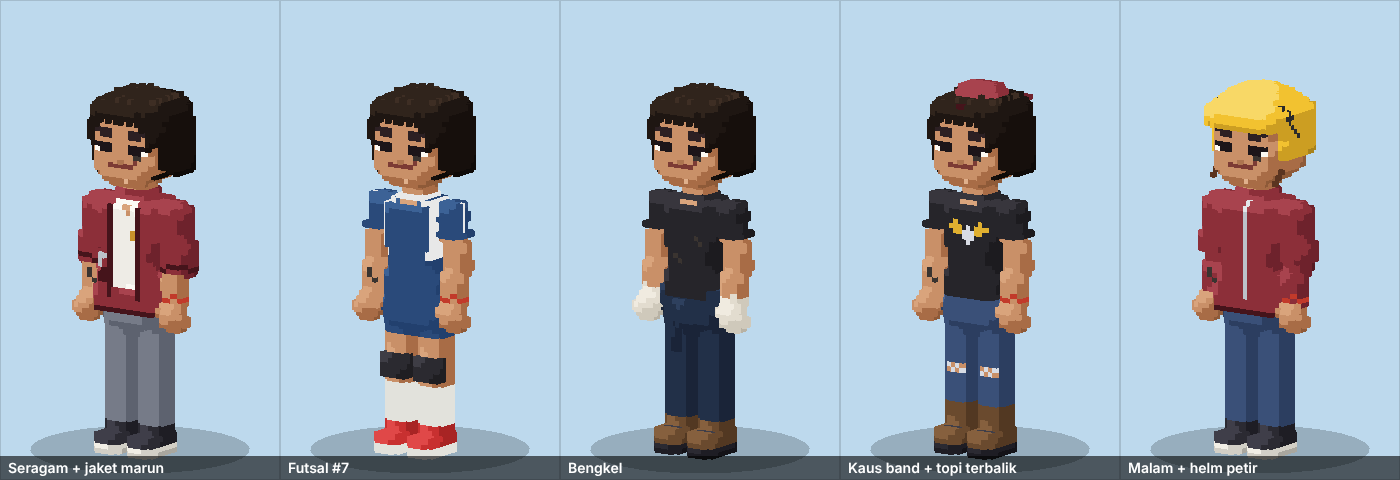
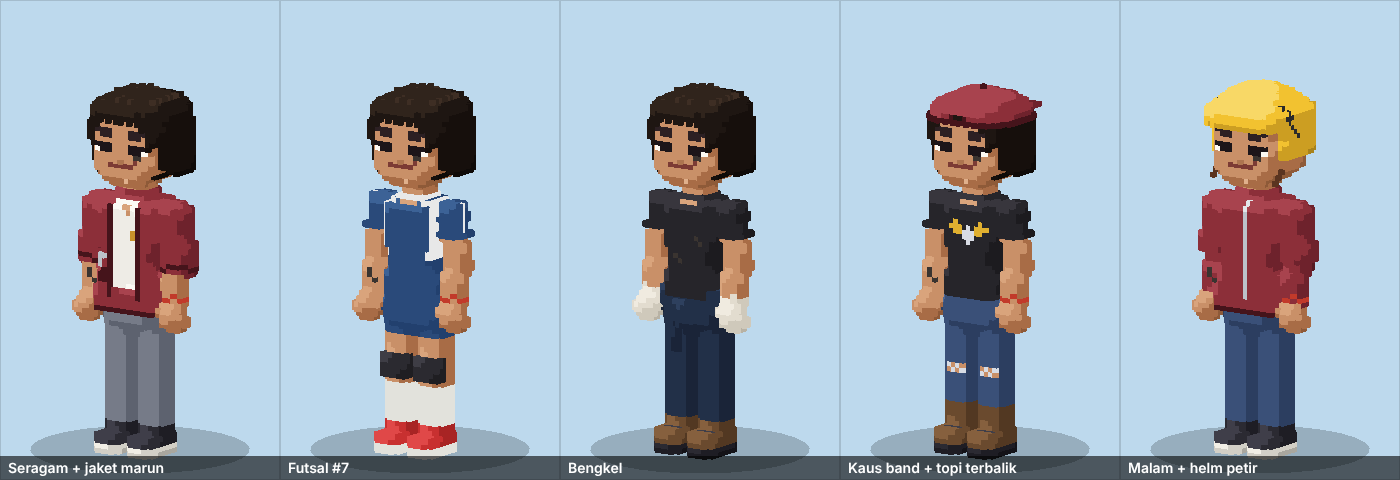
Uti: cap wraps the top of the bob, jersey number reads correctly
The backwards cap now recolours the hair above z 13 plus a one-voxel rim,
so it fits the bob instead of floating as a small dome. The back number
7 was mirrored; back-printed glyphs now map columns as y = centre - c.

Claude-Session: https://claude.ai/code/session_01WWrFmMTNqpdmTQwapYwS1X

Changed region(s): [[0.645, 0.1562, 0.7679, 0.2812]]

diff --git a/tokoh-voxel/raka_voxel.html b/tokoh-voxel/raka_voxel.html
@@ -3350,13 +3350,16 @@ function head(o) {
   hair.rrect(16, -8, -8, 6, 7, 'uHair', 5); hair.rrect(17, -7, -6, 5, 5, 'uHair', 4); hair.rrect(18, -4, -4, 2, 2, 'uHair', 2);
   const zmin = (x, y) => x >= 4 && Math.abs(y + 0.5) > 7 ? 9 : x >= 5 ? FR[Math.max(0, Math.min(13, y + 7))] : x >= 1 ? (Math.abs(y + 0.5) > 6.5 ? 3 + (rnd(x, y, 1) % 3) : 0) : 2 + (rnd(x, y, 2) % 3);
   hair.each((x, y, z, c) => { if (!v.has(x, y, z) && z >= zmin(x, y)) v.set(x, y, z, c); });
-  for (const [x, y] of [[-2, 1], [1, -5], [-5, -3], [4, 3], [6, -6], [-7, 5], [0, -2]]) { const z = topZ(v, x, y); if (z !== null) v.set(x, y, z + 1, 'uHair'); }   // jambul berantakan
+  if (!o.cap) for (const [x, y] of [[-2, 1], [1, -5], [-5, -3], [4, 3], [6, -6], [-7, 5], [0, -2]]) { const z = topZ(v, x, y); if (z !== null) v.set(x, y, z + 1, 'uHair'); }   // jambul berantakan
   for (const y of [-6, -2, 1, 5]) for (let x = -6; x <= 5; x++) { const z = topZ(v, x, y); if (z !== null && rnd(x, y, 5) % 3 === 0 && v.get(x, y, z) === 'uHair') v.set(x, y, z, 'uHairT'); }
-  if (o.cap) {   // topi terbalik marun: kubah di atas bob, pet ke belakang
-    for (let z = 15; z <= 18; z++) { const k = z - 15; v.shell(z, -8 + k, -8 + k, 6 - k, 7 - k, 'topiU', 4); }
-    v.rrect(19, -4, -4, 2, 3, 'topiU', 2);
-    for (let x = -13; x <= -8; x++) for (let y = -4; y <= 3; y++) v.set(x, y, 15, 'topiU');
-    v.set(6, -1, 16, 'marunS'); v.set(6, 0, 16, 'marunS');
+  if (o.cap) {   // topi terbalik marun: membungkus rambut bagian atas saja (z >= 13), bob tetap keluar di bawah
+    v.each((x, y, z, c) => { if (z >= 13 && (c === 'uHair' || c === 'uHairT')) v.set(x, y, z, 'topiU'); });
+    const ring = [];   // lis bawah topi 1 voxel menonjol keluar
+    v.each((x, y, z, c) => { if (z === 13 && c === 'topiU') for (const [dx, dy] of [[1, 0], [-1, 0], [0, 1], [0, -1]]) if (!v.has(x + dx, y + dy, z)) ring.push([x + dx, y + dy]); });
+    for (const [x, y] of ring) v.set(x, y, 13, 'marunS');
+    for (let y = -4; y <= 3; y++) { const xb = v.back(y, 13); for (let x = xb - 1; x >= xb - 6; x--) v.set(x, y, 13, 'topiU'); }   // pet di belakang
+    for (let y = -2; y <= 1; y++) { const z = 14, x = v.front(y, z); if (x !== null) v.set(x, y, z, Math.abs(y + 0.5) < 1 ? 'uHair' : 'marunS'); }   // bukaan pengatur di depan
+    const tz = Math.max(...[-1, 0].map(y => topZ(v, -1, y))); v.set(-1, 0, tz + 1, 'marunS');   // kancing atas topi
   }
   return v;
 }
@@ -3370,7 +3373,7 @@ function chest(o) {
   if (F) {   // jersey futsal putri: garis putih di bahu, nomor 7 di punggung dan dada kecil
     for (let y = -2; y <= 1; y++) v.pf(y, 51, 'uSkin'); v.shell(52, -3, -3, 3, 2, 'uNum', 1);
     for (const s of [-1, 1]) v.psBox(s, -3, 40, 3, 51, 'uNum');
-    ['XXXXX', '....X', '...X.', '..X..', '..X..', '.X...', '.X...'].forEach((row, r) => [...row].forEach((ch, c) => { if (ch === 'X') v.pb(c - 2, 48 - r, 'uNum'); }));
+    ['XXXXX', '....X', '...X.', '..X..', '..X..', '.X...', '.X...'].forEach((row, r) => [...row].forEach((ch, c) => { if (ch === 'X') v.pb(2 - c, 48 - r, 'uNum'); }));
     return v;
   }
   if (W || B) {   // kaus hitam (bengkel) / kaus band motor bersablon roda bersayap (jalan)

diff --git a/tokoh-voxel/src/uti.js b/tokoh-voxel/src/uti.js
@@ -70,13 +70,16 @@ function head(o) {
   hair.rrect(16, -8, -8, 6, 7, 'uHair', 5); hair.rrect(17, -7, -6, 5, 5, 'uHair', 4); hair.rrect(18, -4, -4, 2, 2, 'uHair', 2);
   const zmin = (x, y) => x >= 4 && Math.abs(y + 0.5) > 7 ? 9 : x >= 5 ? FR[Math.max(0, Math.min(13, y + 7))] : x >= 1 ? (Math.abs(y + 0.5) > 6.5 ? 3 + (rnd(x, y, 1) % 3) : 0) : 2 + (rnd(x, y, 2) % 3);
   hair.each((x, y, z, c) => { if (!v.has(x, y, z) && z >= zmin(x, y)) v.set(x, y, z, c); });
-  for (const [x, y] of [[-2, 1], [1, -5], [-5, -3], [4, 3], [6, -6], [-7, 5], [0, -2]]) { const z = topZ(v, x, y); if (z !== null) v.set(x, y, z + 1, 'uHair'); }   // jambul berantakan
+  if (!o.cap) for (const [x, y] of [[-2, 1], [1, -5], [-5, -3], [4, 3], [6, -6], [-7, 5], [0, -2]]) { const z = topZ(v, x, y); if (z !== null) v.set(x, y, z + 1, 'uHair'); }   // jambul berantakan
   for (const y of [-6, -2, 1, 5]) for (let x = -6; x <= 5; x++) { const z = topZ(v, x, y); if (z !== null && rnd(x, y, 5) % 3 === 0 && v.get(x, y, z) === 'uHair') v.set(x, y, z, 'uHairT'); }
-  if (o.cap) {   // topi terbalik marun: kubah di atas bob, pet ke belakang
-    for (let z = 15; z <= 18; z++) { const k = z - 15; v.shell(z, -8 + k, -8 + k, 6 - k, 7 - k, 'topiU', 4); }
-    v.rrect(19, -4, -4, 2, 3, 'topiU', 2);
-    for (let x = -13; x <= -8; x++) for (let y = -4; y <= 3; y++) v.set(x, y, 15, 'topiU');
-    v.set(6, -1, 16, 'marunS'); v.set(6, 0, 16, 'marunS');
+  if (o.cap) {   // topi terbalik marun: membungkus rambut bagian atas saja (z >= 13), bob tetap keluar di bawah
+    v.each((x, y, z, c) => { if (z >= 13 && (c === 'uHair' || c === 'uHairT')) v.set(x, y, z, 'topiU'); });
+    const ring = [];   // lis bawah topi 1 voxel menonjol keluar
+    v.each((x, y, z, c) => { if (z === 13 && c === 'topiU') for (const [dx, dy] of [[1, 0], [-1, 0], [0, 1], [0, -1]]) if (!v.has(x + dx, y + dy, z)) ring.push([x + dx, y + dy]); });
+    for (const [x, y] of ring) v.set(x, y, 13, 'marunS');
+    for (let y = -4; y <= 3; y++) { const xb = v.back(y, 13); for (let x = xb - 1; x >= xb - 6; x--) v.set(x, y, 13, 'topiU'); }   // pet di belakang
+    for (let y = -2; y <= 1; y++) { const z = 14, x = v.front(y, z); if (x !== null) v.set(x, y, z, Math.abs(y + 0.5) < 1 ? 'uHair' : 'marunS'); }   // bukaan pengatur di depan
+    const tz = Math.max(...[-1, 0].map(y => topZ(v, -1, y))); v.set(-1, 0, tz + 1, 'marunS');   // kancing atas topi
   }
   return v;
 }
@@ -90,7 +93,7 @@ function chest(o) {
   if (F) {   // jersey futsal putri: garis putih di bahu, nomor 7 di punggung dan dada kecil
     for (let y = -2; y <= 1; y++) v.pf(y, 51, 'uSkin'); v.shell(52, -3, -3, 3, 2, 'uNum', 1);
     for (const s of [-1, 1]) v.psBox(s, -3, 40, 3, 51, 'uNum');
-    ['XXXXX', '....X', '...X.', '..X..', '..X..', '.X...', '.X...'].forEach((row, r) => [...row].forEach((ch, c) => { if (ch === 'X') v.pb(c - 2, 48 - r, 'uNum'); }));
+    ['XXXXX', '....X', '...X.', '..X..', '..X..', '.X...', '.X...'].forEach((row, r) => [...row].forEach((ch, c) => { if (ch === 'X') v.pb(2 - c, 48 - r, 'uNum'); }));
     return v;
   }
   if (W || B) {   // kaus hitam (bengkel) / kaus band motor bersablon roda bersayap (jalan)

diff --git a/tokoh-voxel/PANDUAN-TOKOH.md b/tokoh-voxel/PANDUAN-TOKOH.md
@@ -90,6 +90,10 @@ ulang dengan dua bahan `c`/`cS` (bahan ketiga tidak ikut diisi lambung). Cek lem
   **Jangan 2 atau 3 warna**: `voxelFrame` gagal (`reading '0'`). Pilih 1 atau 4.
 - Jumlah bahan global sudah lewat 255: kisi `Vox.dense` dan `voxelFrame` memakai `Uint16Array`. Kalau menyalin
   `vox.js`/`frame.js` ke game, salin versi 16 bit ini juga, kalau tidak warna tokoh terakhir jadi kacau.
+- Tulisan/nomor di punggung (`pb`) harus dicerminkan: kolom `c` peta jadi `y = tengah - c`, bukan `c - tengah`, kalau
+  tidak angkanya terbalik dari belakang (kasus nomor 7 Uti). Di dada (`pf`) pakai `y = c - tengah`.
+- Topi di atas rambut: warnai ulang voxel rambut di atas garis topi (Uti: z >= 13) jadi bahan topi + lis 1 voxel,
+  jangan buat kubah kecil terpisah; ukurannya otomatis pas dengan rambut.
 - Garis belahan rambut diwarnai lebih gelap dari rambut, bukan warna kulit: dari atas, garis kulit terbaca botak.
 - Beri awalan unik per tokoh (`nSkin`, `dHair`, `aBuzz`) supaya tidak bertabrakan. Daftar bahan bersifat global. Bahan dari file
   tokoh lain (misalnya `denim`, `kick` dari `rani.js`) hanya boleh dipakai kalau file itu dimuat lebih dulu di `build.mjs`.
